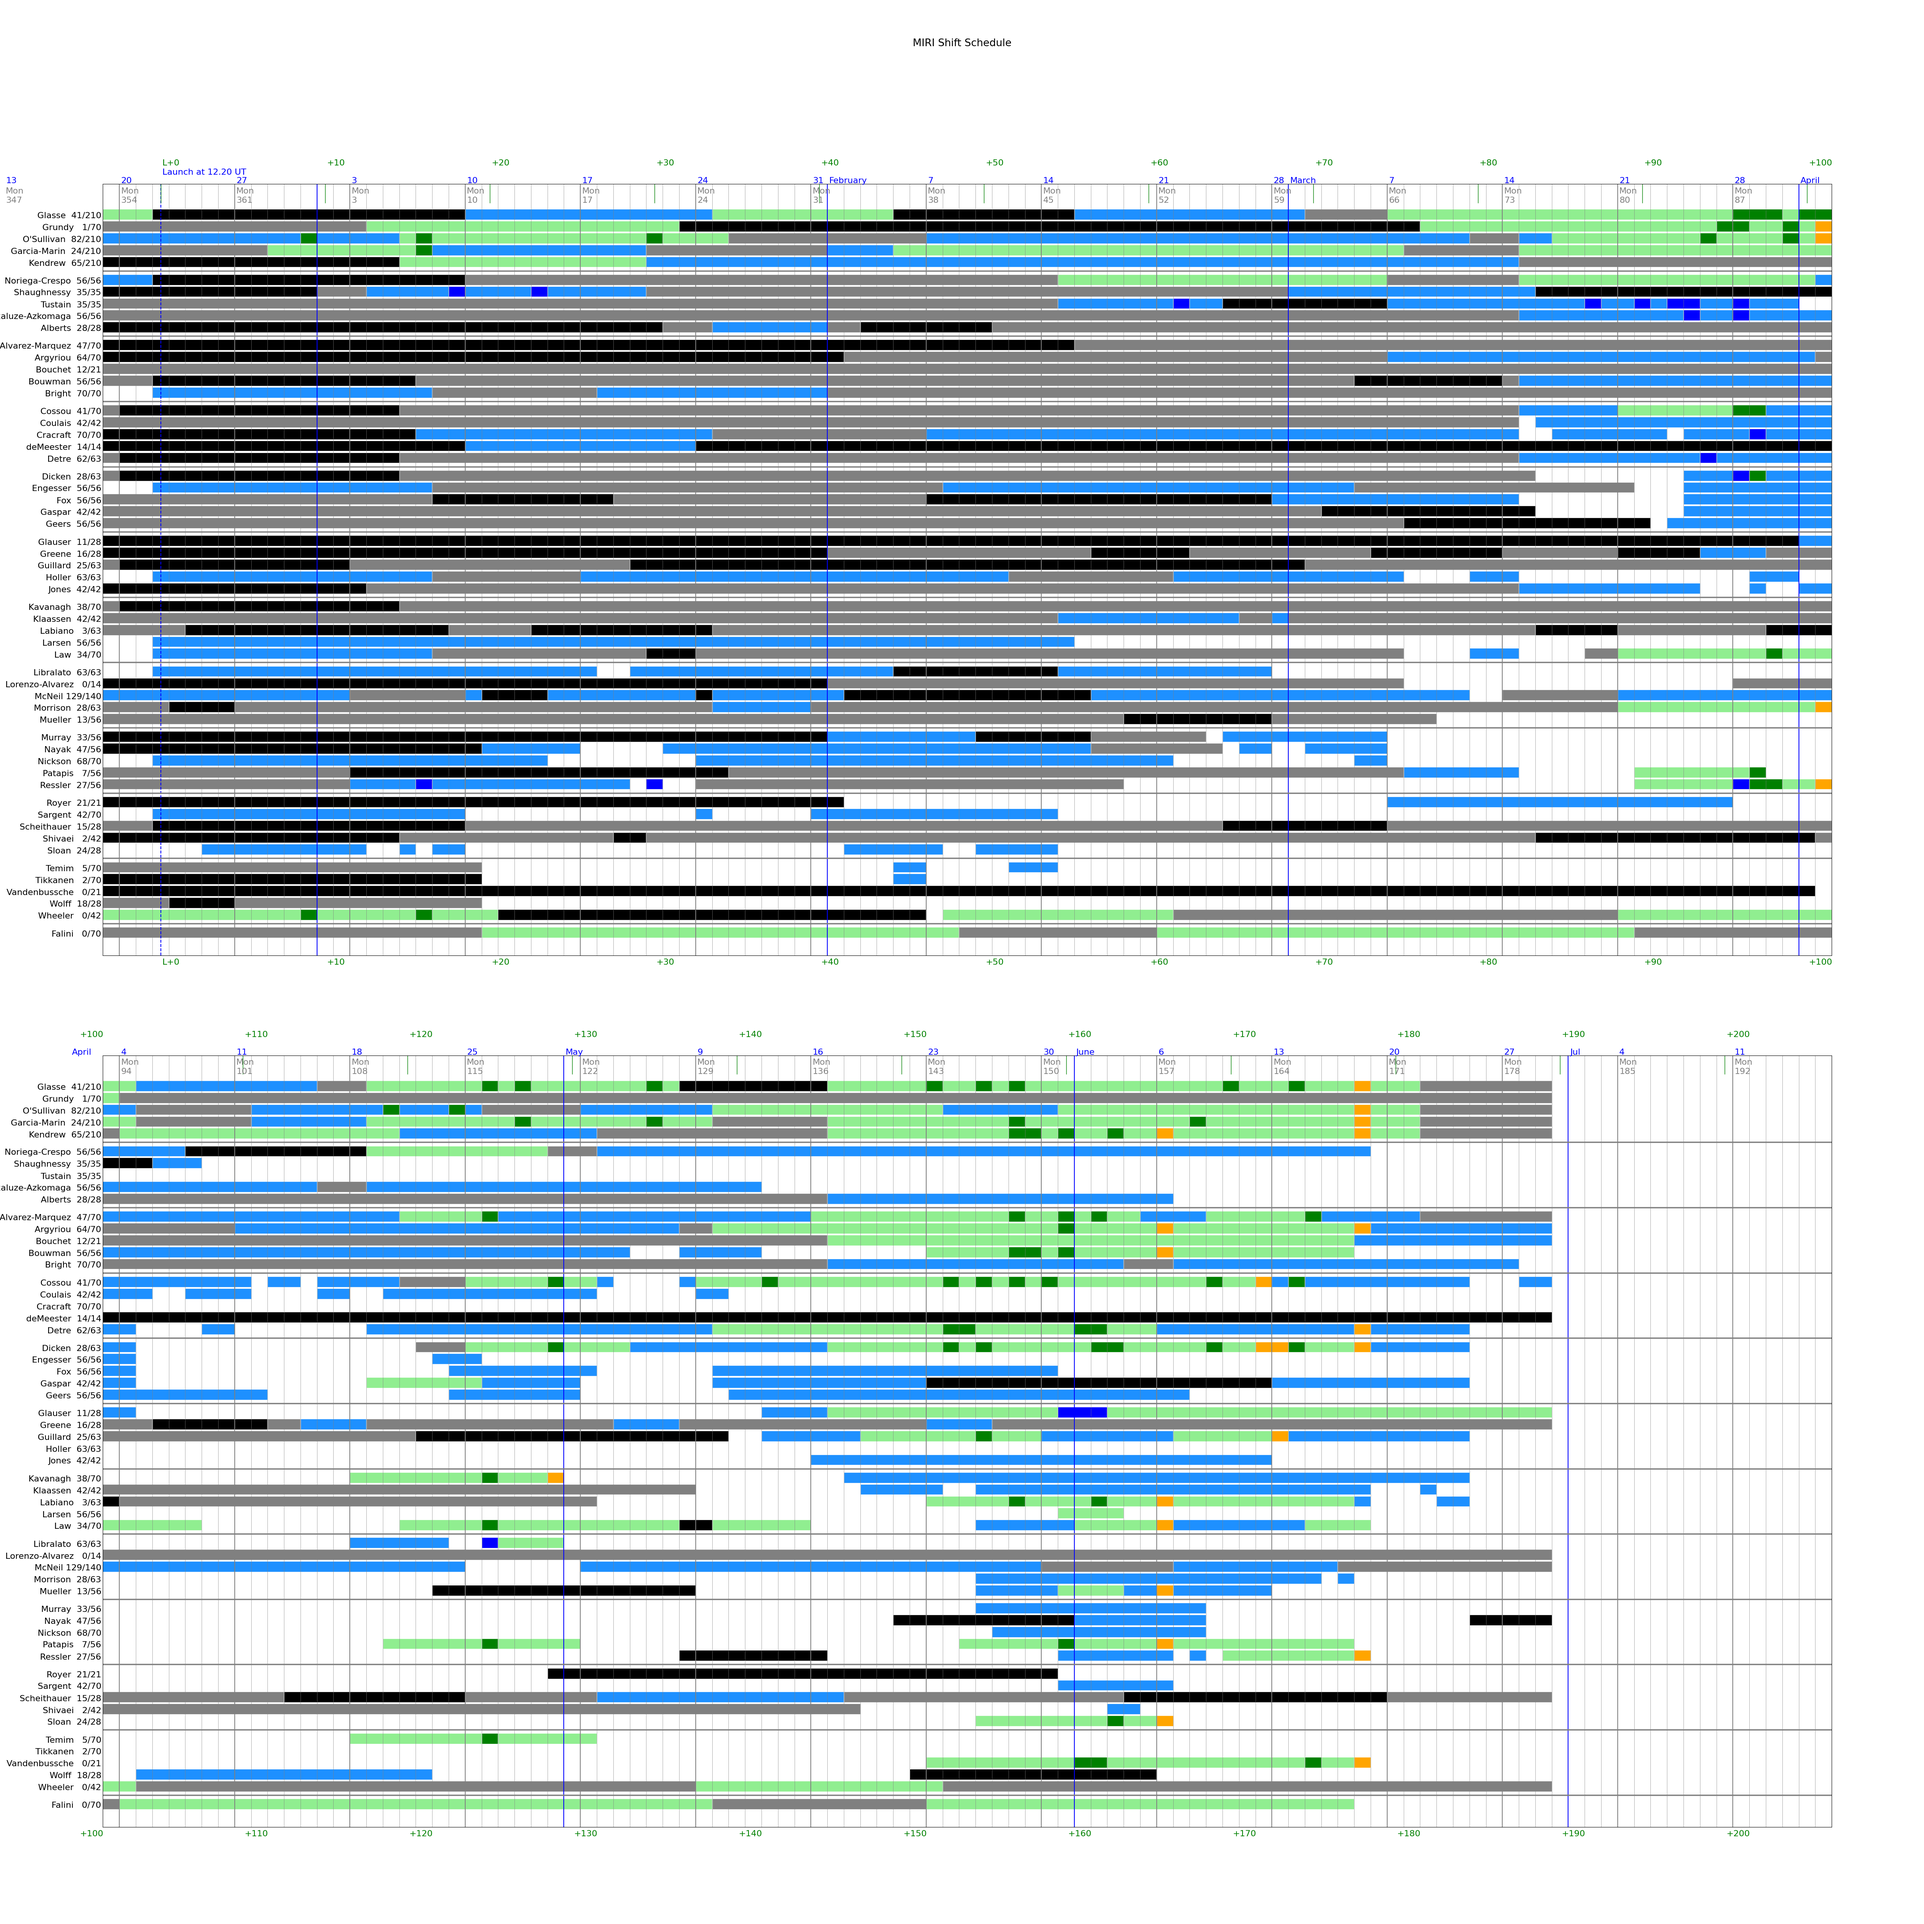
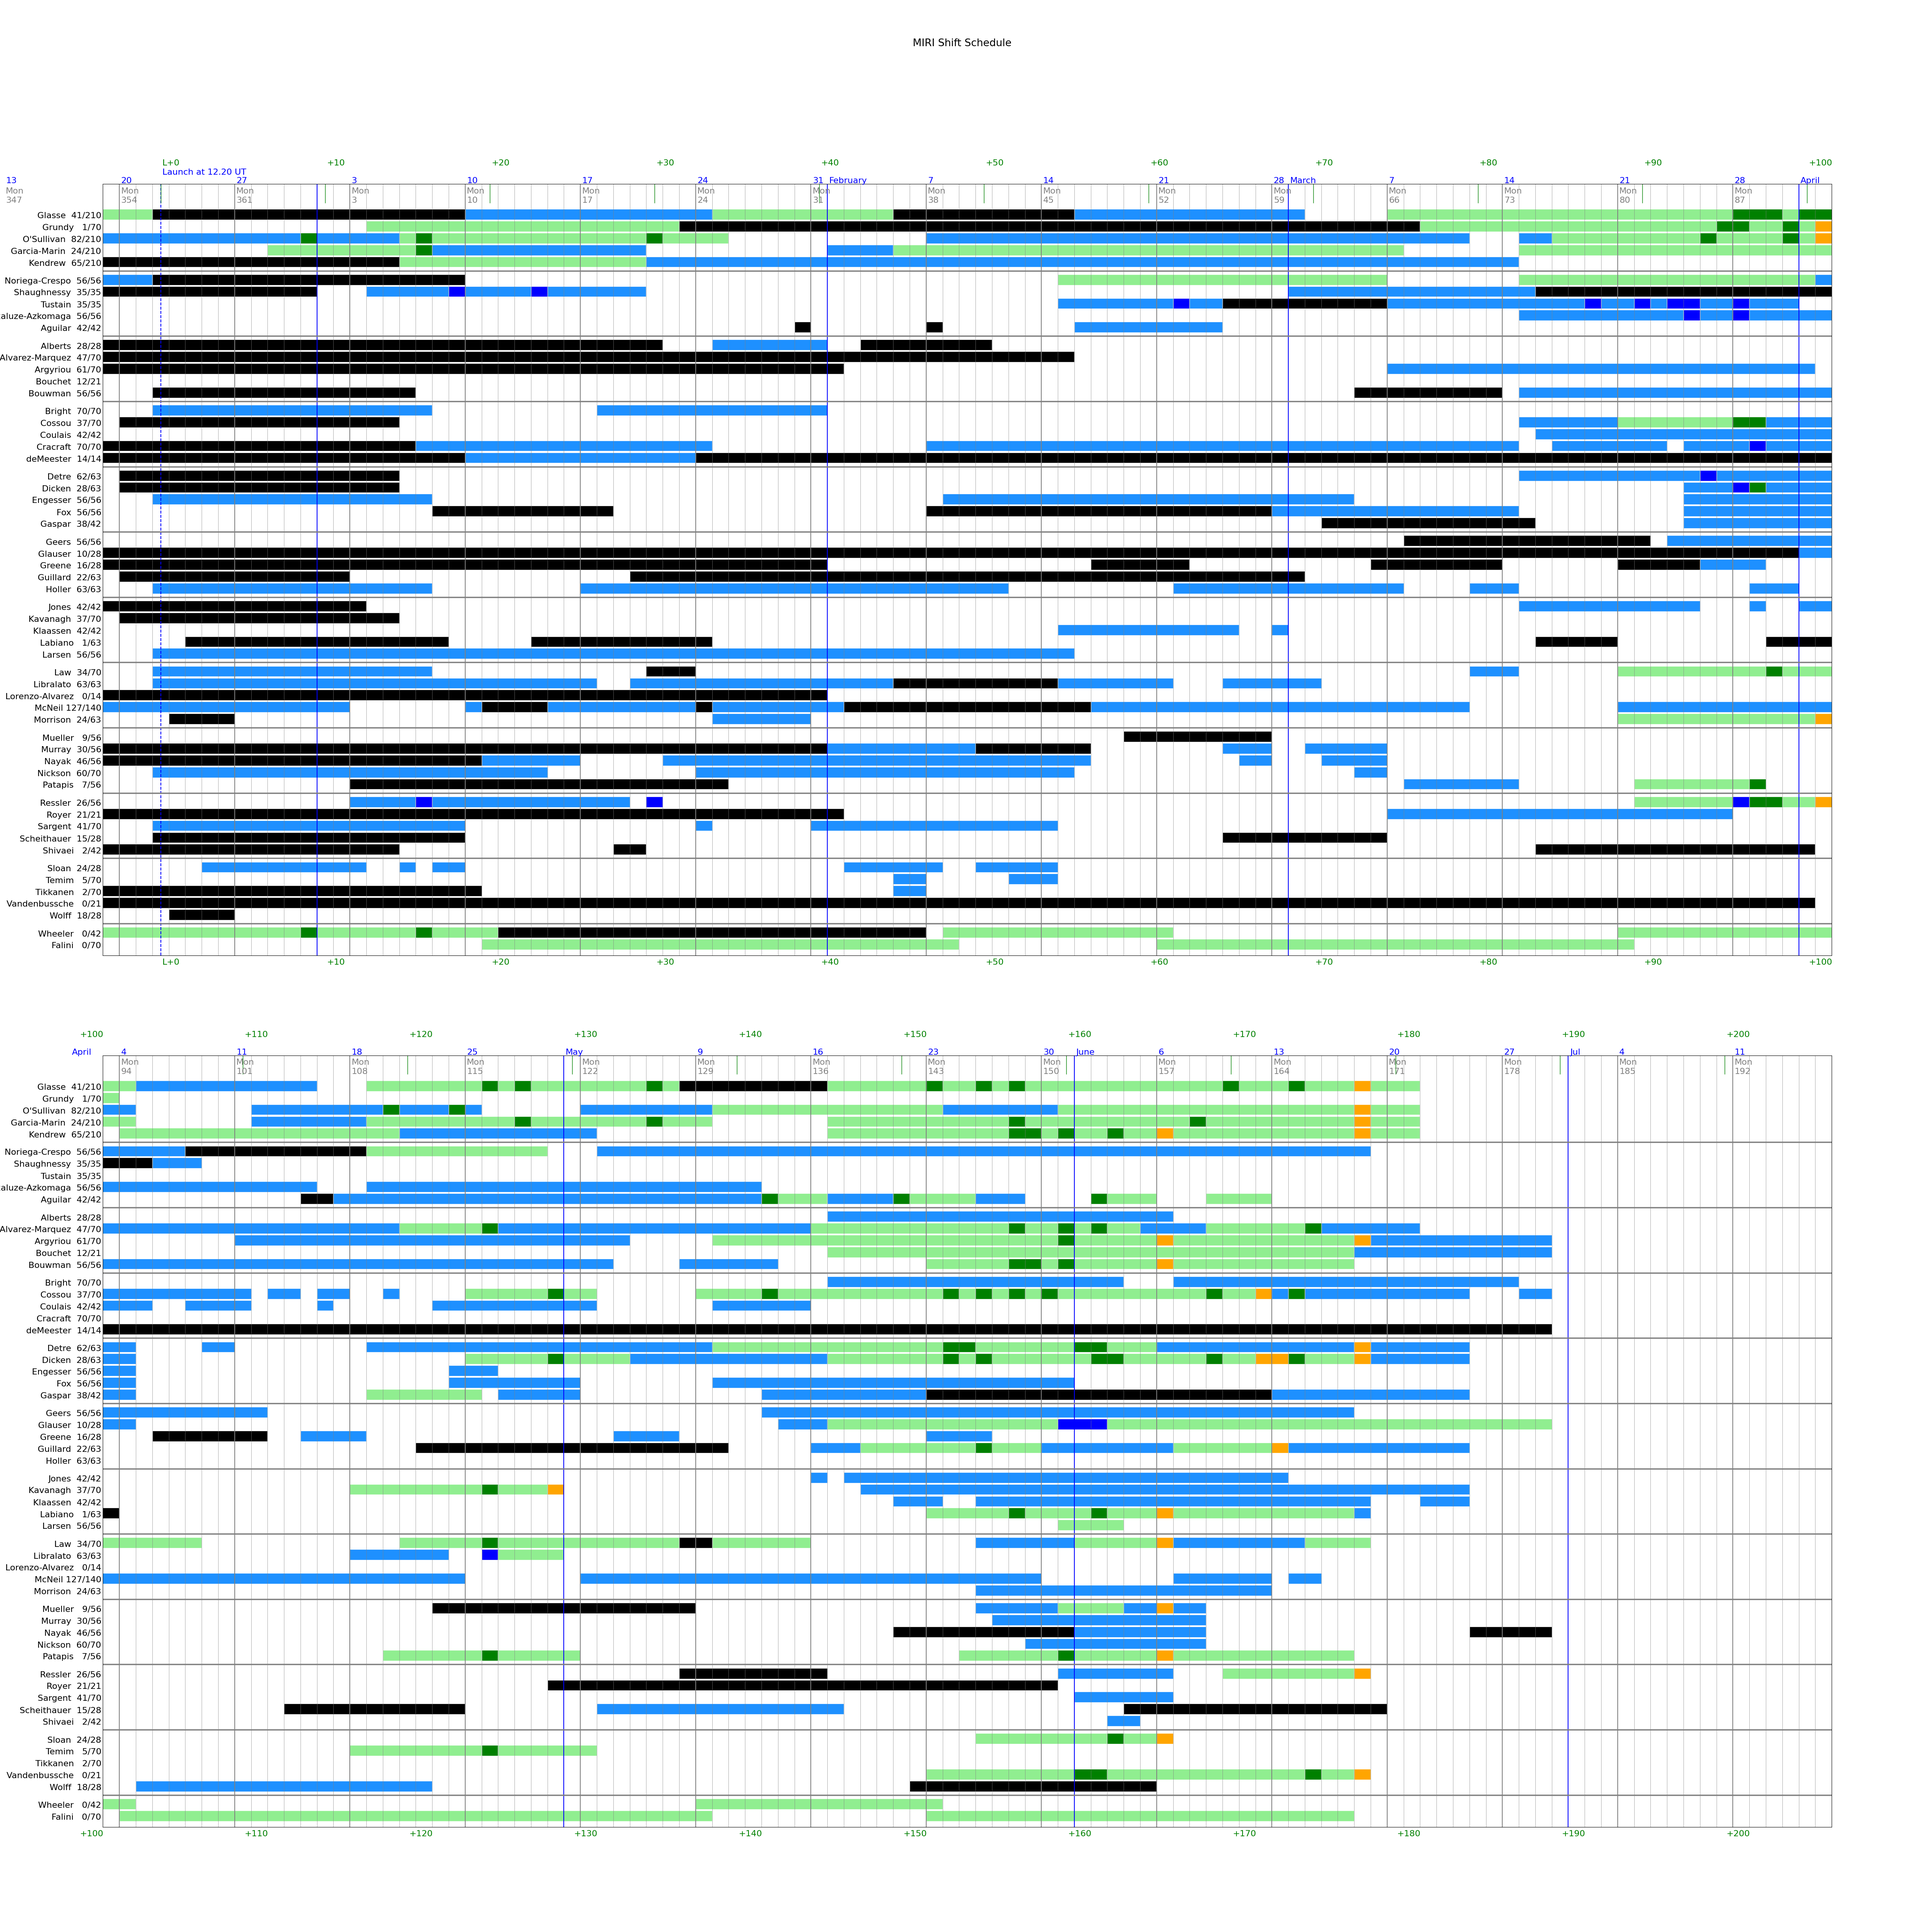
3/12/21 - Added J. Aguilar to plan.

diff --git a/source/timeliner.py b/source/timeliner.py
@@ -64,7 +64,7 @@ a_rota = ShiftPlan.build_analysis_rota()
 a_rota = ShiftPlan.tidy_rota(a_rota)
 ShiftPlan.plot_rota(a_rota, 'analysis_rota', is_analysis=True)
 
-ShiftPlan.plot_staff_schedules(name='staff_schedule.png', show_greyout=True)
+ShiftPlan.plot_staff_schedules(name='staff_schedule.png', show_greyout=False)
 ShiftPlan.plot_rota(rota, 'moc_rota')
 
 
